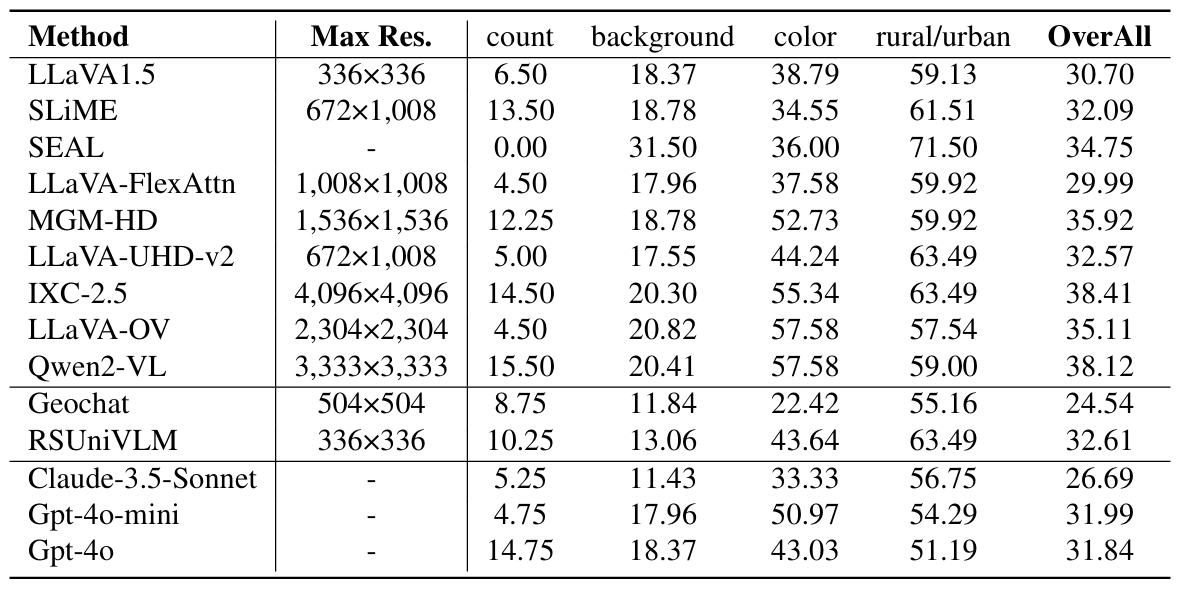
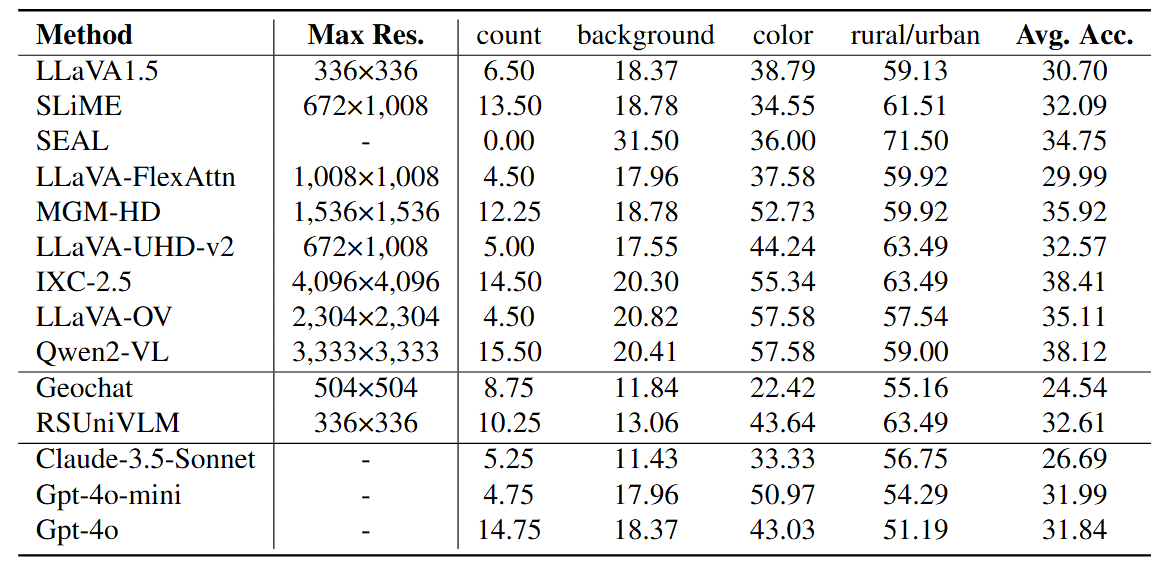
revise eval script

Changed region(s): [[0.0, 0.0, 1.0, 0.9859], [0.644, 0.4183, 0.7053, 0.4482]]

diff --git a/Script/evaluation_LRSVQA.py b/Script/evaluation_LRSVQA.py
@@ -28,67 +28,73 @@ def are_synonyms(word1, word2):
                 return True
     return False
 
-def evaluate_dataset(dataset_data):
-    all_categories = set(item['category'] for item in dataset_data)
-    category_correct = {category: 0 for category in all_categories}
-    category_incorrect = {category: 0 for category in all_categories}
-    correct = 0
-    incorrect = 0
-    
-    for item in dataset_data:
-        gt = item['gt_answer'].lower()
-        # 处理answer为None的情况
-        answer = item['answer']
-        if answer is None:
-            answer = ""  # 将None转换为空字符串
-        else:
-            answer = answer.lower().rstrip('.')  # 移除答案末尾的句点
-            
-        category = item['category'].lower()
-        
-        if gt == answer:
-            correct += 1
-            category_correct[category] += 1
-        else:
-            if answer and are_synonyms(gt, answer):  # 确保answer不为空再检查同义词
-                print(f'synonyms:{gt} and {answer}')
-                correct += 1
-                category_correct[category] += 1
-            else:
-                incorrect += 1
-                category_incorrect[category] += 1
+def evaluate_dataset(base):
 
-    # 打印结果
-    print(f'Correct: {correct}')
-    print(f'Incorrect: {incorrect}')
-    print(f'Total: {correct + incorrect}')
+    all_categories = set(item['category'] for item in base)
+    category_correct = {category: 0 for category in all_categories}
+    category_total = {category: 0 for category in all_categories}
+
+    total_correct = 0
+    total_samples = len(base)
+
+    print("Processing evaluations...")
+    for item in tqdm(base):
+        gt = item.get('ground_truth', '').lower()
+        answer = item.get('text', '').lower()
+        category = item.get('category')
+
+        if not all([gt, category]):
+            print(f"Skipping item due to missing 'ground_truth' or 'category': {item}")
+            total_samples -=1  
+            continue
+
+        is_correct = False
+        if gt == answer:
+            is_correct = True
+        elif are_synonyms(gt, answer):
+            print(f"Synonym match (counted as correct): ground_truth='{gt}', answer='{answer}'")
+            is_correct = True
+
+        if is_correct:
+            total_correct += 1
+            category_correct[category] += 1
+        
+        category_total[category] += 1
+
+    print("\n--- Evaluation Results ---")
+    print(f'Total Correct: {total_correct}')
+    print(f'Total Incorrect: {total_samples - total_correct}')
+    print(f'Total Samples: {total_samples}')
+    print("-" * 25)
+
+    print("Category-wise Accuracies:")
+    sorted_categories = sorted(list(all_categories))
     
-    # 计算每个类别的精度
-    percentage_list = []
-    print("\nCategory-wise accuracies:")
-    sorted_categories = sorted(category_correct.keys())
-    
-    overall_correct = 0
-    overall_total = 0
-    
+    category_accuracies = []
     for cat in sorted_categories:
         cat_corr = category_correct[cat]
-        cat_total = cat_corr + category_incorrect[cat]
-        cat_acc = cat_corr / cat_total if cat_total > 0 else 0
-        print(f"{cat}: {cat_corr}/{cat_total} ({cat_acc * 100:.2f}%)")
-        percentage_list.append(cat_acc * 100)
-        overall_correct += cat_corr
-        overall_total += cat_total
-    
-    overall_acc = overall_correct / overall_total if overall_total > 0 else 0
-    print(f"Overall Acc: {overall_acc*100:.2f}%")
-    percentage_list.append(overall_acc * 100)
-    
-    # 打印纯数字的百分比值
-    print("\nPercentages:")
-    for p in percentage_list:
-        s = f"{p:.2f}".rstrip('0').rstrip('.')
-        print(s)
+        cat_total = category_total[cat]
+        if cat_total > 0:
+            cat_acc = cat_corr / cat_total
+            print(f"{cat:<20}: {cat_corr}/{cat_total} ({cat_acc * 100:.2f}%)")
+            category_accuracies.append(cat_acc)
+        else:
+            print(f"{cat:<20}: 0/0 (N/A)")
+
+    print("-" * 25)
+
+    if total_samples > 0:
+        overall_acc_oa = total_correct / total_samples
+        print(f"Overall Accuracy (OA): {overall_acc_oa * 100:.2f}%")
+    else:
+        print("Overall Accuracy (OA): N/A (No samples found)")
+
+    if category_accuracies:
+        average_acc_aa = sum(category_accuracies) / len(category_accuracies)
+        print(f"Average Accuracy (AA): {average_acc_aa * 100:.2f}%")
+    else:
+        print("Average Accuracy (AA): N/A (No categories with samples found)")
+
 
 def evaluation_metrics(data_path):
     # 读取数据

diff --git a/README.md b/README.md
@@ -96,7 +96,7 @@ To get started with the dataset and evaluation scripts, follow these steps:
     <img src="Figure/res.png" alt="Resolution vs Accuracy" style="max-width:100%; height:auto;">
 </p>
 <p align="center">
-    Leaderboard and performance comparision.
+    Leaderboard and performance comparision. Average Accuracy is reported for each dataset.
 </p>
 
 <p align="center">
